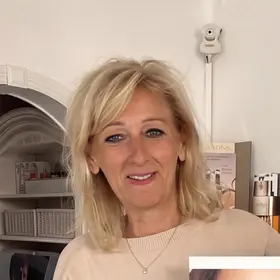
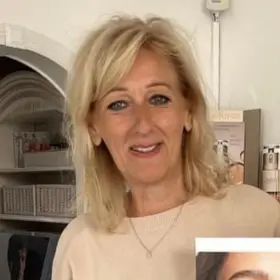
Echte Fotos statt KI-bearbeiteter Versionen
Behandlungsraum und Portrait sind jetzt unbearbeitete Originalaufnahmen.
Die Kennzeichnung "KI editiert" entfaellt dadurch komplett; es bleiben
9 Kennzeichnungen "KI generiert" fuer die tatsaechlich erzeugten Bilder.

Das Raumfoto ist Hochformat: Layout und Bildvarianten entsprechend
angepasst, am Handy 4:5 statt 16:9.

diff --git a/index.html b/index.html
@@ -77,6 +77,7 @@
       </picture>
     </div>
     <div class="hero-scrim" aria-hidden="true"></div>
+    <span class="ai-tag ai-tag-hero">KI generiert</span>
     <div class="hero-inner">
       <div class="hero-content">
         <span class="kicker light" data-stagger style="--i:1">Kosmetikinstitut in Schriesheim</span>
@@ -103,10 +104,10 @@
           <div class="img-frame reveal-img">
             <picture>
               <source type="image/webp" sizes="(max-width:1100px) 92vw, 46vw"
-                      srcset="images/ambiente-560.webp 560w, images/ambiente-720.webp 720w, images/ambiente-900.webp 900w, images/ambiente-1400.webp 1400w">
-              <img src="images/ambiente-900.jpg" sizes="(max-width:1100px) 92vw, 46vw"
-                   srcset="images/ambiente-560.jpg 560w, images/ambiente-720.jpg 720w, images/ambiente-900.jpg 900w, images/ambiente-1400.jpg 1400w"
-                   alt="Behandlungsraum im Kosmetikinstitut Christa von Schachtmeyer" width="1400" height="782" decoding="async">
+                      srcset="images/ambiente-480.webp 480w, images/ambiente-700.webp 700w, images/ambiente-900.webp 900w, images/ambiente-1200.webp 1200w">
+              <img src="images/ambiente-700.jpg" sizes="(max-width:1100px) 92vw, 46vw"
+                   srcset="images/ambiente-480.jpg 480w, images/ambiente-700.jpg 700w, images/ambiente-900.jpg 900w, images/ambiente-1200.jpg 1200w"
+                   alt="Behandlungsraum im Kosmetikinstitut Christa von Schachtmeyer" width="1200" height="1600" loading="lazy" decoding="async">
             </picture>
           </div>
         </div>
@@ -150,6 +151,7 @@
                    srcset="images/methode-480.jpg 480w, images/methode-760.jpg 760w, images/methode-1200.jpg 1200w"
                    alt="Kosmetikerin führt eine sanfte Gesichtsmassage durch" width="1200" height="800" loading="lazy" decoding="async">
             </picture>
+            <span class="ai-tag">KI generiert</span>
           </div>
         </div>
         <div class="methode-copy reveal d1">
@@ -185,6 +187,7 @@
             <span class="acc-titles">
               <span class="acc-cat">Clarins Gesichtsbehandlungen</span>
               <span class="acc-desc">Für sichtbar gepflegte und entspannte Haut</span>
+              <span class="ai-tag ai-tag-inline">KI generiert</span>
             </span>
             <span class="acc-icon" aria-hidden="true"></span>
           </button>
@@ -227,6 +230,7 @@
             <span class="acc-titles">
               <span class="acc-cat">Augenbrauen</span>
               <span class="acc-desc">In Form bringen, neu gestalten, färben</span>
+              <span class="ai-tag ai-tag-inline">KI generiert</span>
             </span>
             <span class="acc-icon" aria-hidden="true"></span>
           </button>
@@ -253,6 +257,7 @@
             <span class="acc-titles">
               <span class="acc-cat">Wimpern</span>
               <span class="acc-desc">Definierter Blick durch Wimpernfärben</span>
+              <span class="ai-tag ai-tag-inline">KI generiert</span>
             </span>
             <span class="acc-icon" aria-hidden="true"></span>
           </button>
@@ -271,6 +276,7 @@
             <span class="acc-titles">
               <span class="acc-cat">Haarentfernung mit Wachs</span>
               <span class="acc-desc">Sanft und gründlich, für streichelzarte Haut</span>
+              <span class="ai-tag ai-tag-inline">KI generiert</span>
             </span>
             <span class="acc-icon" aria-hidden="true"></span>
           </button>
@@ -301,6 +307,7 @@
             <span class="acc-titles">
               <span class="acc-cat">Füße</span>
               <span class="acc-desc">Pediküre und Lack für gepflegte Füße</span>
+              <span class="ai-tag ai-tag-inline">KI generiert</span>
             </span>
             <span class="acc-icon" aria-hidden="true"></span>
           </button>
@@ -323,6 +330,7 @@
             <span class="acc-titles">
               <span class="acc-cat">Hände</span>
               <span class="acc-desc">Maniküre und Lack für schöne Hände</span>
+              <span class="ai-tag ai-tag-inline">KI generiert</span>
             </span>
             <span class="acc-icon" aria-hidden="true"></span>
           </button>
@@ -345,6 +353,7 @@
             <span class="acc-titles">
               <span class="acc-cat">Makeup</span>
               <span class="acc-desc">Vom Tageslook bis zum Braut Makeup</span>
+              <span class="ai-tag ai-tag-inline">KI generiert</span>
             </span>
             <span class="acc-icon" aria-hidden="true"></span>
           </button>
@@ -489,7 +498,7 @@
         </ul>
       </div>
     </div>
-    <p class="footer-note">Die Bilder auf dieser Website wurden teils mit Künstlicher Intelligenz (KI) erstellt, teils sind es Fotografien, die mit KI überarbeitet wurden. Vollständig KI-generierte Bilder zeigen keine realen Personen.</p>
+    <p class="footer-note">Bilder, die mit <strong>KI generiert</strong> gekennzeichnet sind, wurden vollständig mit Künstlicher Intelligenz erstellt und zeigen keine realen Personen. Alle übrigen Bilder sind unbearbeitete Aufnahmen aus dem Institut.</p>
     <div class="footer-bottom">
       <span>© <span id="year">2026</span> Kosmetikinstitut Christa von Schachtmeyer</span>
       <span class="legal-links"><a href="impressum.html">Impressum</a><a href="datenschutz.html">Datenschutz</a></span>

diff --git a/styles.css b/styles.css
@@ -219,8 +219,30 @@ body.menu-open .nav-toggle span:nth-child(3){transform:translateY(-7px) rotate(-
 @keyframes staggerUp{to{opacity:1;transform:none;}}
 
 /* ============================================================
-   Reveal on scroll
+   KI-Kennzeichnung der Bilder (EU AI Act, Art. 50)
    ============================================================ */
+.ai-tag{
+  position:absolute;right:.8rem;bottom:.8rem;z-index:3;
+  font-family:var(--sans);font-size:.68rem;font-weight:400;
+  letter-spacing:.14em;text-transform:uppercase;line-height:1;
+  color:rgba(255,255,255,.94);
+  background:rgba(26,16,13,.62);
+  padding:.45em .75em;
+  pointer-events:none;
+}
+@supports (backdrop-filter:blur(4px)){
+  .ai-tag{backdrop-filter:blur(4px);-webkit-backdrop-filter:blur(4px);}
+}
+.ai-tag-hero{right:auto;left:50%;transform:translateX(-50%);bottom:1.6rem;}
+
+/* Variante fuer Stellen ohne Bildflaeche darunter (rundes Portrait, Preisliste) */
+.ai-tag-inline{
+  position:static;display:inline-block;
+  color:var(--muted);background:none;backdrop-filter:none;
+  padding:0;margin-top:.5rem;
+  font-size:.62rem;letter-spacing:.18em;
+}
+.acc-titles .ai-tag-inline{margin-top:.35rem;}
 /* Text gleitet nur hoch, ohne Opacity: halbtransparente Schrift waehrend der
    Animation wuerde sonst den Kontrast unterschreiten. Bilder faden weiter ein. */
 .reveal{transform:translateY(38px);transition:transform .9s var(--ease);}
@@ -271,7 +293,7 @@ body.menu-open .nav-toggle span:nth-child(3){transform:translateY(-7px) rotate(-
 
 .welcome-visual{position:relative;margin:0;display:flex;flex-direction:column;}
 .welcome-visual .img-frame{position:relative;overflow:hidden;border-radius:0;box-shadow:var(--shadow);flex:1 1 auto;min-height:440px;}
-.welcome-visual img{width:100%;height:100%;object-fit:cover;object-position:center 38%;transition:transform 1.4s var(--ease);}
+.welcome-visual img{width:100%;height:100%;object-fit:cover;object-position:center 55%;transition:transform 1.4s var(--ease);}
 .welcome-visual:hover img{transform:scale(1.05);}
 .visual-caption{margin-top:1.5rem;padding-left:.15rem;}
 .visual-caption .vc-k{
@@ -466,7 +488,8 @@ body.menu-open .nav-toggle span:nth-child(3){transform:translateY(-7px) rotate(-
 .footer ul a{font-size:.95rem;color:rgba(255,255,255,.78);transition:color .3s;}
 .footer ul a:hover{color:#EEBFB0;}
 .footer-bottom{display:flex;justify-content:space-between;flex-wrap:wrap;gap:1rem;padding-top:1.6rem;font-size:.8rem;color:rgba(255,255,255,.62);letter-spacing:.03em;}
-.footer-note{font-size:.78rem;line-height:1.65;color:rgba(255,255,255,.5);font-weight:300;max-width:48rem;padding-top:1.7rem;}
+.footer-note{font-size:.78rem;line-height:1.65;color:rgba(255,255,255,.62);font-weight:300;max-width:48rem;padding-top:1.7rem;}
+.footer-note strong{font-weight:500;color:rgba(255,255,255,.82);letter-spacing:.04em;}
 .legal-links{display:flex;gap:1.5rem;}
 .legal-links a{color:rgba(255,255,255,.62);transition:color .3s;}
 .legal-links a:hover{color:#EEBFB0;}
@@ -494,7 +517,7 @@ body.menu-open .nav-toggle span:nth-child(3){transform:translateY(-7px) rotate(-
   .welcome-head,.welcome-visual,.promises{grid-column:1;grid-row:auto;}
   .welcome-visual{display:block;}
   .welcome-visual .img-frame{min-height:0;}
-  .welcome-visual img{height:auto;aspect-ratio:16/9;}
+  .welcome-visual img{height:auto;aspect-ratio:4/5;max-height:70vh;}
 }
 @media(max-width:900px){
   .methode-grid,.christa-grid,.kontakt-grid{grid-template-columns:1fr;}

diff --git a/impressum.html b/impressum.html
@@ -46,8 +46,9 @@
       <h2>Verbraucherstreitbeilegung/Universalschlichtungsstelle</h2>
       <p>Wir sind nicht bereit oder verpflichtet, an Streitbeilegungsverfahren vor einer Verbraucherschlichtungsstelle teilzunehmen.</p>
 
-      <h2>Hinweis zu KI-generierten Bildern</h2>
-      <p>Ein Teil der auf dieser Website gezeigten Bilder wurde mit Künstlicher Intelligenz (KI) erstellt. Weitere Bilder sind Fotografien, die mithilfe von KI überarbeitet wurden. Vollständig KI-generierte Bilder zeigen keine realen Personen.</p>
+      <h2>Kennzeichnung von KI-Inhalten</h2>
+      <p>Bilder, die mit Künstlicher Intelligenz erstellt wurden, sind unmittelbar am Bild mit <strong>KI generiert</strong> gekennzeichnet. Diese Bilder zeigen keine realen Personen, sondern dienen ausschließlich der Illustration.</p>
+      <p>Alle übrigen Bilder sind unbearbeitete Aufnahmen aus dem Institut.</p>
 
       <a class="btn ghost legal-back" href="index.html">Zurück zur Startseite</a>
     </div>
@@ -56,7 +57,7 @@
 
 <footer class="footer">
   <div class="wrap">
-    <p class="footer-note">Die Bilder auf dieser Website wurden teils mit Künstlicher Intelligenz (KI) erstellt, teils sind es Fotografien, die mit KI überarbeitet wurden. Vollständig KI-generierte Bilder zeigen keine realen Personen.</p>
+    <p class="footer-note">Bilder, die mit <strong>KI generiert</strong> gekennzeichnet sind, wurden vollständig mit Künstlicher Intelligenz erstellt und zeigen keine realen Personen. Alle übrigen Bilder sind unbearbeitete Aufnahmen aus dem Institut.</p>
     <div class="footer-bottom">
       <span>&copy; <span id="year">2026</span> Kosmetikinstitut Christa von Schachtmeyer</span>
       <span class="legal-links"><a href="impressum.html">Impressum</a><a href="datenschutz.html">Datenschutz</a></span>

diff --git a/build-images.js b/build-images.js
@@ -14,12 +14,18 @@ const OUT = path.join(__dirname, 'images');
 // Quadratischer Portraitausschnitt (Anteile der Originalmasse),
 // damit das runde Bild ohne CSS-Zoom auskommt.
 const CROP = {
-  christa: { left: 0.315, top: 0, size: 0.25 },
+  christa: { left: 0.171, top: 0.073, size: 0.429 },
+};
+
+// Abweichende Qualitaet fuer einzelne Bilder (Standard: jpg 78 / webp 74).
+// Das Raumfoto ist grossflaechig hell und vertraegt staerkere Kompression.
+const QUALITY = {
+  ambiente: { jpeg: 72, webp: 66 },
 };
 
 const PLAN = {
   hero:           [768, 1280, 1920],
-  ambiente:       [560, 720, 900, 1400],
+  ambiente:       [480, 700, 900, 1200],
   methode:        [480, 760, 1200],
   christa:        [280, 480],
   gesicht:        [160],
@@ -51,11 +57,12 @@ async function build() {
 
     for (const w of widths) {
       const suffix = widths.length > 1 ? '-' + w : '';
+      const q = QUALITY[name] || { jpeg: 78, webp: 74 };
       await base().resize({ width: w, withoutEnlargement: true })
-        .jpeg({ quality: 78, mozjpeg: true, progressive: true })
+        .jpeg({ quality: q.jpeg, mozjpeg: true, progressive: true })
         .toFile(path.join(OUT, `${name}${suffix}.jpg`));
       await base().resize({ width: w, withoutEnlargement: true })
-        .webp({ quality: 74 })
+        .webp({ quality: q.webp })
         .toFile(path.join(OUT, `${name}${suffix}.webp`));
       const jpgKb = Math.round(fs.statSync(path.join(OUT, `${name}${suffix}.jpg`)).size / 1024);
       const webpKb = Math.round(fs.statSync(path.join(OUT, `${name}${suffix}.webp`)).size / 1024);
